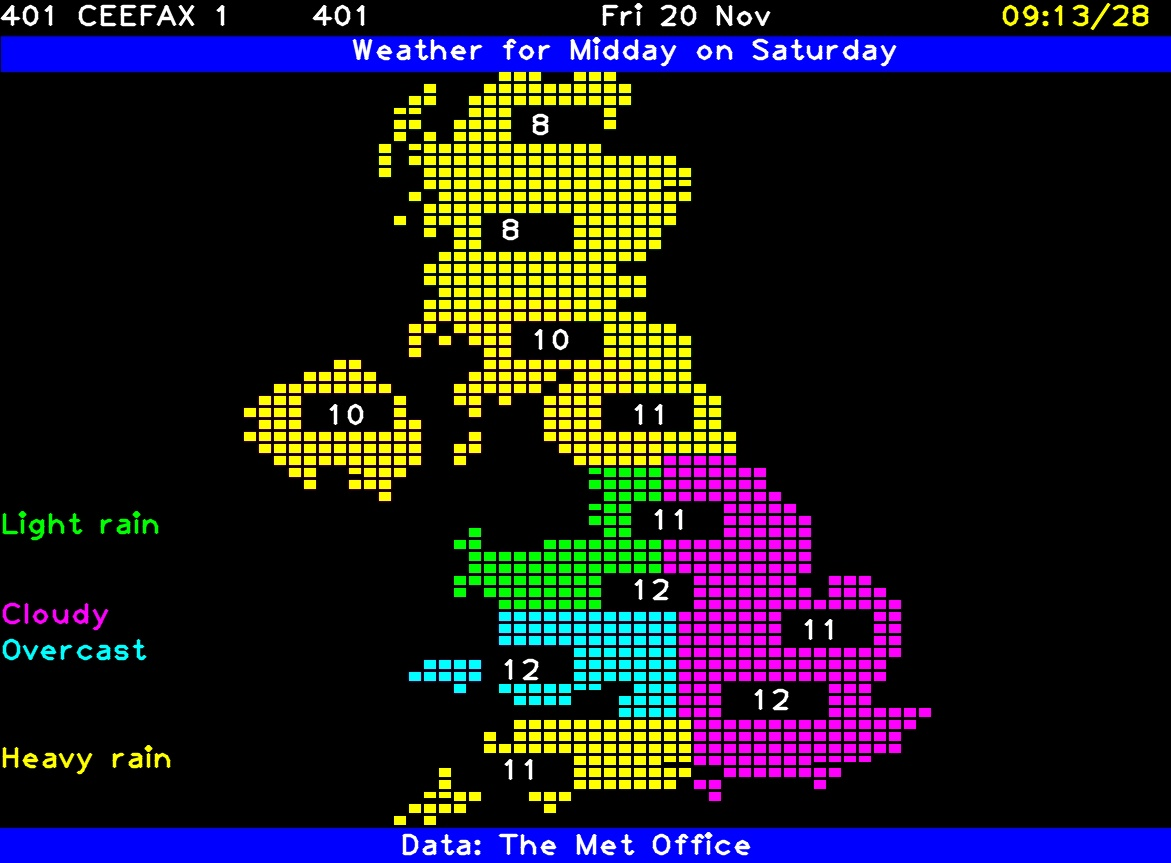
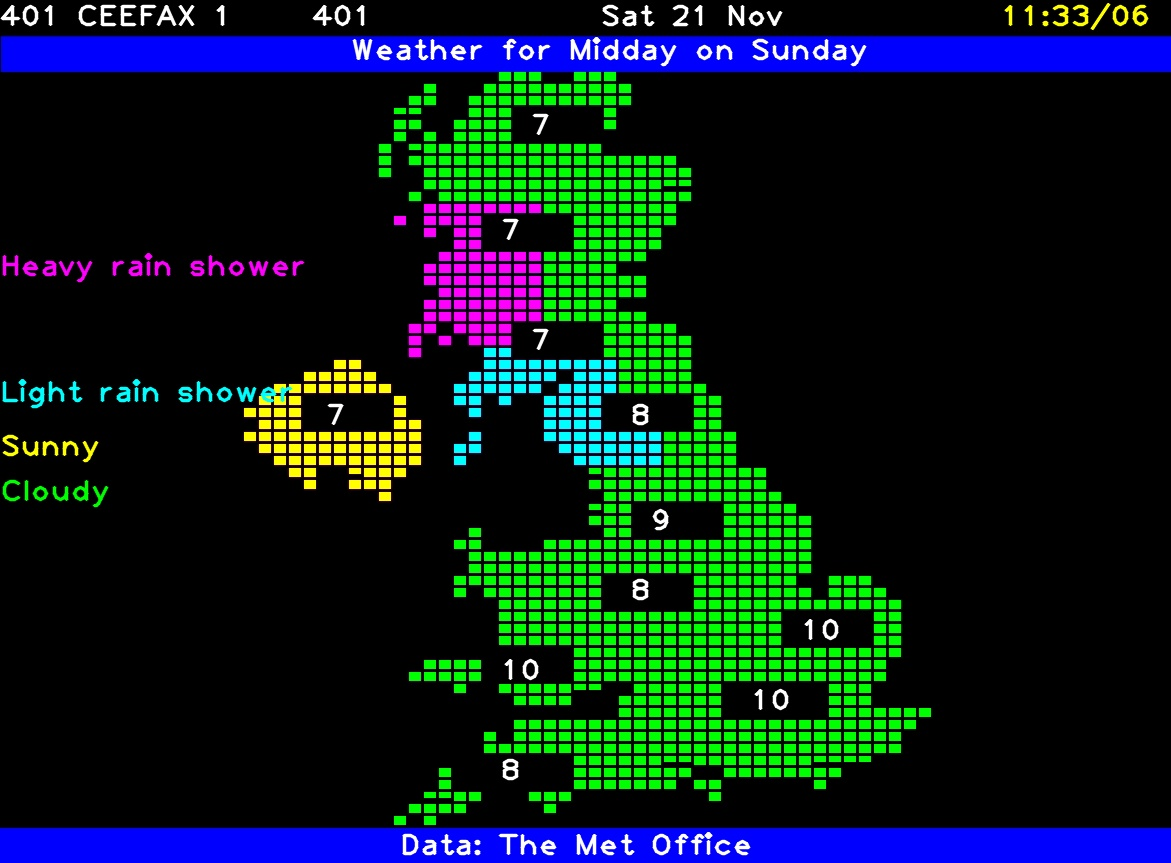
pi_2020-11-21_1135

diff --git a/weather2.py b/weather2.py
@@ -376,6 +376,19 @@ for period in timeos:
                     if data[city4][period][1] in ['12','15']:
                         data[city4][period][1]='31'
         if len(connies)>4:
+            if '7' in connies and '8' in connies:
+                connies.remove('8')
+                for city4 in blocks:
+                    if data[city4][period][1] in ['8']:
+                        data[city4][period][1] = '7'
+        if len(connies)>4:
+            if '12' in connies and '13' in connies:
+                connies.remove('12')
+                connies.remove('13')
+                for city4 in blocks:
+                    if data[city4][period][1] in ['12','13']:
+                        data[city4][period][1] = '31'
+        if len(connies)>4:
             wintry = ['31','16','17','19','20','22','23','24','25','26']
             score=0
             for k in connies:
@@ -387,6 +400,15 @@ for period in timeos:
                     if l in connies:
                         connies.remove(l)
                 connies.append('32')
+                
+        groups2={}
+        connies2=[]
+        for city in blocks:
+            if data[city][period][1] not in connies2:
+                connies2.append(data[city][period][1])
+                groups2[data[city][period][1]]=[city]
+            else:
+                groups2[data[city][period][1]].append(city)
             
    
      #   print(groups)
@@ -408,26 +430,38 @@ for period in timeos:
     i=0
     words=[]
     posy={}
+   # print(connies)
     while i<len(connies):
         words.append(connies[i])
         i=i+1
+    cols={}
     for city3 in blocks:
+       # print(city3)
         j=0
-        while j<len(connies):
-            if city3 in groups[connies[j]]:
+   
+ #       print(connies,groups2)
+        while j<len(connies2):
+            if city3 in groups2[connies2[j]]:
+              #  print(groups2[connies2[j]])
                 cx=colours[j]
+                cols[city3]=cx
                 if cx not in posy.keys():
                     posy[cx]=[]
                 posy[cx]=posy[cx]+list(blocks[city3].keys())
 
 
             j=j+1
+#    print(cols)
+ #   print(groups2)
+    for city3 in blocks:
         for y in blocks[city3]:
             for x in blocks[city3][y]:
+                cx=cols[city3]
                 img=cv2.rectangle(img,(int(x),y),(int(x)+11,y+8),cx,-1)
         if city3 in small:
             for y in small[city3]:
                 for x in small[city3][y]:
+                    cx=cols[city3]
                     img=cv2.rectangle(img,(int(x),y),(int(x)+11,y+5),cx,-1)
         
         
@@ -444,16 +478,16 @@ for period in timeos:
         while m<n:
             if abs(posns[m][1] - posns[n][1]) < 30:
                 if posns[n][1] < 780:
-                    posns[n] = (0, posns[n][1] + 60)
+                    posns[n] = (0, posns[n][1] + 30)
                 else:
-                    posns[n] = (0,posns[n][1] - 60)
+                    posns[n] = (0,posns[n][1] - 30)
             m=m+1
         n=n+1
     print(posns)
     
     ab2=0
-    while ab2<len(connies):
-        diff=connies[ab2]
+    while ab2<len(connies2):
+        diff=connies2[ab2]
         cv2.putText(img,codes[int(diff)],posns[ab2],font,2,colours[ab2],2,cv2.LINE_AA)
         ab2=ab2+1
                     
